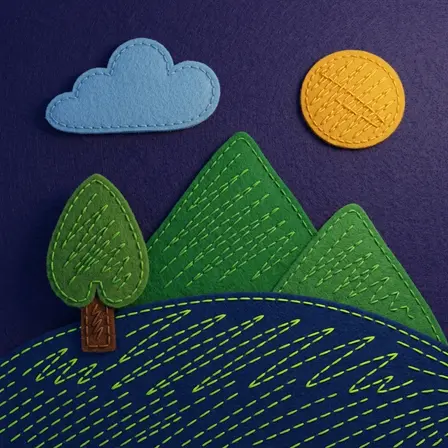
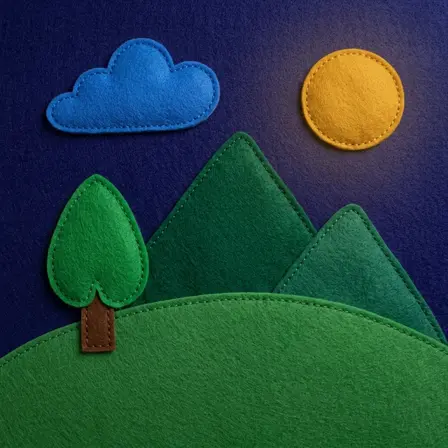
Re-roll four dark covers and cut the sticker off its plate
Crayon read as daylight: the previous suffix leaned so hard on BRIGHT to
escape the mud that it stopped looking like night at all. It now names
the palette it wants — dusky indigo, pine and moss, muted gold — and asks
for rich and readable rather than bright.

Clay was flattening into stacked cutouts, because on a dark ground the
model reads every silhouette as an outline. Its dark suffix now says the
scene is one continuous mass, blended, shaped by light and shade rather
than by any edge drawn around a piece.

Felt was using running stitch as a FILL, wavy dashes scribbled across the
ground to mean "this area is colored in". A re-roll on the unchanged
prompt came back with solid felt and stitching kept to the seams.

Watercolor had gone flat and vector-ish. The re-roll brings back the deep
navy wash, the granulation, and the wet mountain edges of the roll before
it, this time without the deckled matte that one framed itself in.

Sticker stops carrying a backdrop. A white die-cut band needs something
behind it, and any baked plate is wrong in one theme or the other, so it
is generated on a chroma-key field, flood-filled away from the border,
and shipped RGBA — the picker's own --paper shows through, and the shadow
moves to CSS where it sits on the silhouette instead of a plate. The band
is thicker, which is what made it worth cutting out in the first place.

The field is magenta rather than grey on purpose: a grey field came back
[…]

diff --git a/web/src/lib/ai/styles.ts b/web/src/lib/ai/styles.ts
@@ -15,7 +15,7 @@ export const STYLE_SUFFIXES = {
     'Render the final image as a handmade layered paper-craft collage photographed from above: cut each element from thick, textured construction paper with soft rounded edges and lay it on a warm off-white textured-paper background, with soft natural drop shadows between the layers for a tactile, three-dimensional feel. Use no drawn outlines; the shapes are defined only by the paper color and the gentle shadows where the layers overlap. Fill the whole frame edge to edge, with no surrounding border or matte.',
   Felt: 'Render the final image as a handmade felt craft scene, with fuzzy 3D fabric textures and stitched details. The felt fills the whole frame edge to edge, running off all four edges, with no surrounding border, hoop, table, or backdrop visible.',
   Sticker:
-    'Render the final image as a bold sticker illustration with thick outlines, solid colors, and a white die-cut border, sitting on a plain white background with a soft drop shadow beneath it so it looks like a sticker peeling off the page.',
+    'Render the final image as a bold sticker illustration with thick outlines and solid colors, cut out with a WIDE white die-cut border — a thick, generous band of even white following the whole silhouette, like a chunky vinyl sticker. Place it on a chroma-key backdrop: a completely flat, uniform, saturated BRIGHT MAGENTA field (like a green-screen, but magenta) with no shadow, gradient, texture, vignette, or any other object anywhere on it. The backdrop must stay pure vivid magenta everywhere so it can be keyed away cleanly, and nothing in the sticker may be magenta. The whole sticker sits WELL INSIDE the frame, scaled to about three quarters of the image so a wide band of magenta shows on all four sides; no part of the sticker or its white border may touch, run off, or be cropped by any edge of the image.',
   Cartoon:
     'Render the final image as a clean digital cartoon and comic book illustration with bold lines, smooth shading, and crisp edges.',
   Clay: 'Render the final image as a handmade claymation scene: every element sculpted from soft modeling clay with rounded edges, gentle thumbprint texture, and a subtle sheen, lit like a stop-motion film set. Each sculpted piece is smooth, solid clay in one even color, with no drawn, scratched, or engraved lines on its surface. Fill the whole frame edge to edge with the clay scene, with no surrounding border, table, or backdrop visible.',
@@ -28,19 +28,35 @@ export const STYLE_NAMES = Object.keys(STYLE_SUFFIXES) as StyleName[];
 // Dark-theme replacements for the styles whose MEDIUM has to be described
 // differently on dark paper, not just lit differently — the shared night clause
 // in prompt.ts recolors a scene but cannot re-stage a craft. Crayon becomes wax
-// on black construction paper so the strokes stay luminous instead of muddying;
-// Paper swaps its off-white sheet for charcoal and leans harder on fibrous cut
-// edges, which the dark ground otherwise flattens away; Sticker keeps its white
-// die-cut band but needs a grey backing for the band to read at all. Every other
-// style takes its light suffix unchanged plus the night clause.
+// on black construction paper, where the risk runs both ways: too literal a
+// reading of "night" dims the drawing itself into mud, and pushing back too hard
+// buys legibility at the cost of looking like daylight. Paper swaps its
+// off-white sheet for charcoal and leans harder on fibrous cut edges, which the
+// dark ground otherwise flattens away. Clay has to say the scene is one
+// continuous mass, because the dark ground reads every silhouette as a dark
+// outline and the forms flatten into stacked cutouts. Every other style takes
+// its light suffix unchanged plus the night clause — Sticker included, now that
+// its backdrop is cut away rather than colored.
 export const DARK_STYLE_SUFFIXES = {
   Crayon:
-    'Render the final image as a vibrant crayon drawing on dark construction paper, the way BRIGHT crayons look on a black sheet. Cover the entire sheet with wax — every area, the sky and ground included, is crayoned in solid color running right off all four edges, leaving no bare paper margin, border, or matte anywhere in the frame. Every shape is filled in solidly with wax; never leave a shape as a hollow outline or a ring with the background showing through it. The fill must be unmistakably WAX: matte, faintly grainy, with the tooth of the paper breaking through the color. Crucially, the crayons themselves are BRIGHT — vivid greens, a bold yellow sun, clear blues — laid down thickly enough to sit up light and cheerful against the dark sheet. Only the paper is dark; the drawing on it is not. A dim, muddy, or barely visible picture is wrong.',
+    'Render the final image as a crayon drawing on dark construction paper. Cover the entire sheet with wax — every area, the sky and ground included, is crayoned in solid color running right off all four edges, leaving no bare paper margin, border, or matte anywhere in the frame. Every shape is filled in solidly with wax; never leave a shape as a hollow outline or a ring with the background showing through it. The fill must be unmistakably WAX: matte, faintly grainy, with the tooth of the dark paper breaking through the color. The scene is lit by MOONLIGHT, so choose deep evening crayons — a dusky indigo or midnight-blue sky, deep pine and moss greens, a soft muted gold for the sun. Each color must stay rich and clearly readable rather than sinking into mud, but the picture must plainly look like night: never bright, neon, vivid, or daylit.',
+  Clay: 'Render the final image as a handmade claymation scene: every element sculpted from soft modeling clay with rounded edges, gentle thumbprint texture, and a subtle sheen, lit like a stop-motion film set under low, warm night lighting. The whole scene is ONE continuous mass of clay — the pieces are pressed together and blended into each other, with no dark outline, rim, seam, gap, or drop shadow between them, and nothing sitting on top as a separate flat cutout. Each form is a rounded three-dimensional volume, thickest through the middle and falling softly away at its silhouette, shaped by light and shade alone rather than by any edge drawn or darkened around it. Each sculpted piece is smooth, solid clay in one even color, with no drawn, scratched, or engraved lines on its surface. Fill the whole frame edge to edge with the clay scene, with no surrounding border, table, or backdrop visible.',
   Paper:
     'Render the final image as a handmade layered paper-craft collage. Cut every element from thick construction paper with soft rounded corners and visibly fibrous, slightly furry cut edges, and stack the elements in layers, each piece physically raised off the one beneath it and casting its own soft shadow so you can see it is a separate sheet with real thickness. The backmost layer is the night sky itself: one deep charcoal-indigo sheet of construction paper that IS the entire picture surface, filling the frame completely and running off all four edges. Light the scene from one side so the shadows and the paper grain stay clearly visible; a flat picture where the layers cannot be told apart is wrong. Every element must be unmistakably CUT PAPER — matte, fibrous, physically raised — never paint and never a flat drawing. Use no drawn outlines; the shapes are defined only by the paper color and the shadows where the layers overlap. There is no object sitting on a surface here: show no mount, card, tile, frame, border, matte, table, or backdrop, only the collage itself filling the entire image.',
-  Sticker:
-    'Render the final image as a bold sticker illustration with thick outlines and solid colors, cut out with a clean white die-cut border that follows the artwork as one smooth, even band of constant width, sitting on a plain dark charcoal-grey background with a pronounced soft drop shadow beneath and around it, so the sticker lifts off the dark surface and its white edge reads as a crisp bright band against the grey.',
 } satisfies Partial<Record<StyleName, string>>;
+
+/**
+ * Styles generated on a flat field that the pipeline keys out, so the picker's
+ * own surface shows through the cover instead of a baked plate. Their suffix
+ * must describe that field as flat and unshadowed — see
+ * tools/asset-gen/lib/flat-background-punch.mjs, which flood-fills it from the
+ * border, and the drop shadow AiImagePrompt draws in CSS to replace the baked one.
+ */
+export const PUNCHED_BACKGROUND_STYLES = ['Sticker'] as const satisfies readonly StyleName[];
+
+export function hasPunchedBackground(style: StyleName): boolean {
+  return (PUNCHED_BACKGROUND_STYLES as readonly StyleName[]).includes(style);
+}
 
 /** The suffix map for a theme — dark overrides layered over the light set. */
 export function styleSuffixesFor(theme: ResolvedTheme): Record<StyleName, string> {

diff --git a/web/src/lib/components/AiImagePrompt.svelte b/web/src/lib/components/AiImagePrompt.svelte
@@ -3,7 +3,12 @@
   import { aiPrompt } from '$lib/state/ui.svelte';
   import { exportCanvasBlob } from '$lib/drawing/engine';
   import { generateAiImage } from '$lib/drawing/aiImage';
-  import { STYLE_NAMES, type StyleName, styleThumbPath } from '$lib/ai/styles';
+  import {
+    STYLE_NAMES,
+    type StyleName,
+    hasPunchedBackground,
+    styleThumbPath,
+  } from '$lib/ai/styles';
   import { resolvedTheme } from '$lib/state/appearance.svelte';
   import { modalDialog } from '$lib/actions/modalDialog.svelte';
   import { createAiPreviewLoader } from './aiPreview';
@@ -69,7 +74,14 @@
             onclick={() => handleSelectStyle(s)}
             disabled={!drawingBlob}
           >
-            <img class="ai-style-thumb" src={thumb} alt="" loading="lazy" decoding="async" />
+            <img
+              class="ai-style-thumb"
+              class:ai-style-thumb-cutout={hasPunchedBackground(s)}
+              src={thumb}
+              alt=""
+              loading="lazy"
+              decoding="async"
+            />
             <span class="ai-style-label">{s}</span>
           </button>
         {/each}
@@ -142,6 +154,13 @@
     transition:
       border-color var(--duration-fast) ease,
       transform var(--duration-fast) ease;
+  }
+
+  /* A cutout cover has no backdrop of its own, so --paper shows through and the
+     shadow the render used to bake in is drawn here instead — where it can sit
+     on the silhouette rather than on a plate, and follow the theme. */
+  .ai-style-thumb-cutout {
+    filter: drop-shadow(0 2px 3px rgba(0, 0, 0, 0.28));
   }
 
   .ai-style-label {

diff --git a/tools/asset-gen/docs/style-cover-theme-fork.md b/tools/asset-gen/docs/style-cover-theme-fork.md
@@ -47,8 +47,23 @@ A dark cover is made of two halves, and it needs both:
 
 Five styles take that unchanged. Three carry a `DARK_STYLE_SUFFIXES` override, because a night
 clause recolors a scene but **cannot re-stage a craft**: Crayon becomes wax on black construction
-paper, Paper swaps its off-white sheet for charcoal, and Sticker keeps its white die-cut band over a
-charcoal backing so the band still reads.
+paper, Paper swaps its off-white sheet for charcoal, and Clay has to declare the scene one
+continuous mass — on a dark ground the model reads every silhouette as an outline and the sculpted
+forms flatten into stacked cutouts.
+
+**Sticker has no backdrop at all.** It is the one style whose backdrop was never scenery — a white
+die-cut band needs something behind it, and whatever we baked in was wrong in one theme or the
+other. So it is generated on a **chroma-key field** that `lib/flat-background-punch.mjs` floods away
+from the border, and ships as RGBA with the field transparent, letting the picker's own `--paper`
+show through in both themes. The shadow that used to be baked into the render is drawn in CSS
+instead, where it sits on the silhouette rather than on a plate. `PUNCHED_BACKGROUND_STYLES` is the
+one list both sides read.
+
+The key is seeded from the border and spreads only through connected backdrop, so a matching color
+*inside* the artwork is never cut away. The field is **magenta**, not grey: an early grey field came
+back near-white, the flood fill could not tell it from the white die-cut band, and it ate both — the
+sticker shipped with no border at all. A backdrop color that cannot occur in the subject is the
+whole trick.
 
 The endpoint stays on `'light'`, with the reasoning at the call site. The request carries no theme,
 and adding one is a decision about what the button *produces* — not about how the picker looks.
@@ -67,12 +82,22 @@ and adding one is a decision about what the button *produces* — not about how 
   * **Paper's dark suffix has no "photographed from above … lay it on a background".** That staging
     language is what kept inventing a mounted card to photograph, and no amount of "no border, no
     mount, no frame" overrode it — deleting the staging did, on the roll after. Six rolls.
+* **A cover is judged on `--paper`, never on white.** The two failure modes that survive a contact
+  sheet are a night render drifting bright enough to read as daylight and a cutout whose die-cut
+  band disappears into the surface behind it. Both are invisible against a neutral review background
+  and obvious against the real one.
+* **Cutouts are fitted with `contain`, not `cover`.** Cropping to fill shaves the die-cut band off
+  whichever edge the model drew closest, and the band is the whole point of the style.
+* **`punchedFraction` is a cheap failure detector.** A run that keys far too little or far too much
+  means the model gave us a shadowed, textured, or absent backdrop, and the generator says so per
+  cover instead of shipping a ghost.
 * **`theme.ts` is now on the sanctioned `web/src` import list** ([`README.md`](README.md)) and
   spells its own tokens import with an explicit `.ts`, because bare Node under
   `--experimental-strip-types` will not resolve an extensionless specifier the way Vite does.
 * **`AiImagePrompt.svelte` left the raw-hex allowlist** in `scripts/lint-token-styles.mjs`: its
   paper-white plate is `var(--paper)` now that both themes have real art behind it.
-* **Sticker is a light-flavoured style by definition** — a white die-cut border. Its dark variant
-  keeps the band and changes the backing rather than inventing a different sticker.
+* **Sticker still ships two variants even though its backdrop is gone.** The band and the cut are
+  identical; what differs is the scene inside it, which the night clause recolors like any other
+  style. Only the plate stopped being a per-theme decision.
 * Adding a third theme means a third full cover set: `styles.test.ts` derives its expectations from
   `PAPER_COLORS`, so it fails rather than letting one theme's art silently serve another.

diff --git a/tools/asset-gen/.ruler/AGENTS.md b/tools/asset-gen/.ruler/AGENTS.md
@@ -78,9 +78,10 @@ carve-out):
   `channels: 3, hasAlpha: false`, no error). Interleave an explicit RGBA buffer and construct
   `sharp(rgba, { raw: { width,
   height, channels: 4 } })` instead, and verify outputs with
-  `sharp(out).metadata()` → `hasAlpha: true`. The runtime line-art overlays intentionally use this
-  explicit-RGBA path (`lib/overlay-alpha.mjs`); the fill punch still inpaints instead of cutting
-  holes (`docs/inpainted-fill-punch.md`).
+  `sharp(out).metadata()` → `hasAlpha: true`. The runtime line-art overlays and the style-cover
+  backdrop key intentionally use this explicit-RGBA path (`lib/overlay-alpha.mjs`,
+  `lib/flat-background-punch.mjs`); the fill punch still inpaints instead of cutting holes
+  (`docs/inpainted-fill-punch.md`).
 * **Outputs are committed artifacts**, reviewed by a human before shipping. The generators write
   shipped art into `web/static/` and review scratch into the gitignored `.coloring-samples*/`. Never
   commit the scratch dirs.

diff --git a/tools/asset-gen/AGENTS.md b/tools/asset-gen/AGENTS.md
@@ -82,9 +82,10 @@ carve-out):
   `channels: 3, hasAlpha: false`, no error). Interleave an explicit RGBA buffer and construct
   `sharp(rgba, { raw: { width,
   height, channels: 4 } })` instead, and verify outputs with
-  `sharp(out).metadata()` → `hasAlpha: true`. The runtime line-art overlays intentionally use this
-  explicit-RGBA path (`lib/overlay-alpha.mjs`); the fill punch still inpaints instead of cutting
-  holes (`docs/inpainted-fill-punch.md`).
+  `sharp(out).metadata()` → `hasAlpha: true`. The runtime line-art overlays and the style-cover
+  backdrop key intentionally use this explicit-RGBA path (`lib/overlay-alpha.mjs`,
+  `lib/flat-background-punch.mjs`); the fill punch still inpaints instead of cutting holes
+  (`docs/inpainted-fill-punch.md`).
 * **Outputs are committed artifacts**, reviewed by a human before shipping. The generators write
   shipped art into `web/static/` and review scratch into the gitignored `.coloring-samples*/`. Never
   commit the scratch dirs.

diff --git a/tools/asset-gen/CLAUDE.md b/tools/asset-gen/CLAUDE.md
@@ -80,9 +80,10 @@ carve-out):
   `channels: 3, hasAlpha: false`, no error). Interleave an explicit RGBA buffer and construct
   `sharp(rgba, { raw: { width,
   height, channels: 4 } })` instead, and verify outputs with
-  `sharp(out).metadata()` → `hasAlpha: true`. The runtime line-art overlays intentionally use this
-  explicit-RGBA path (`lib/overlay-alpha.mjs`); the fill punch still inpaints instead of cutting
-  holes (`docs/inpainted-fill-punch.md`).
+  `sharp(out).metadata()` → `hasAlpha: true`. The runtime line-art overlays and the style-cover
+  backdrop key intentionally use this explicit-RGBA path (`lib/overlay-alpha.mjs`,
+  `lib/flat-background-punch.mjs`); the fill punch still inpaints instead of cutting holes
+  (`docs/inpainted-fill-punch.md`).
 * **Outputs are committed artifacts**, reviewed by a human before shipping. The generators write
   shipped art into `web/static/` and review scratch into the gitignored `.coloring-samples*/`. Never
   commit the scratch dirs.
